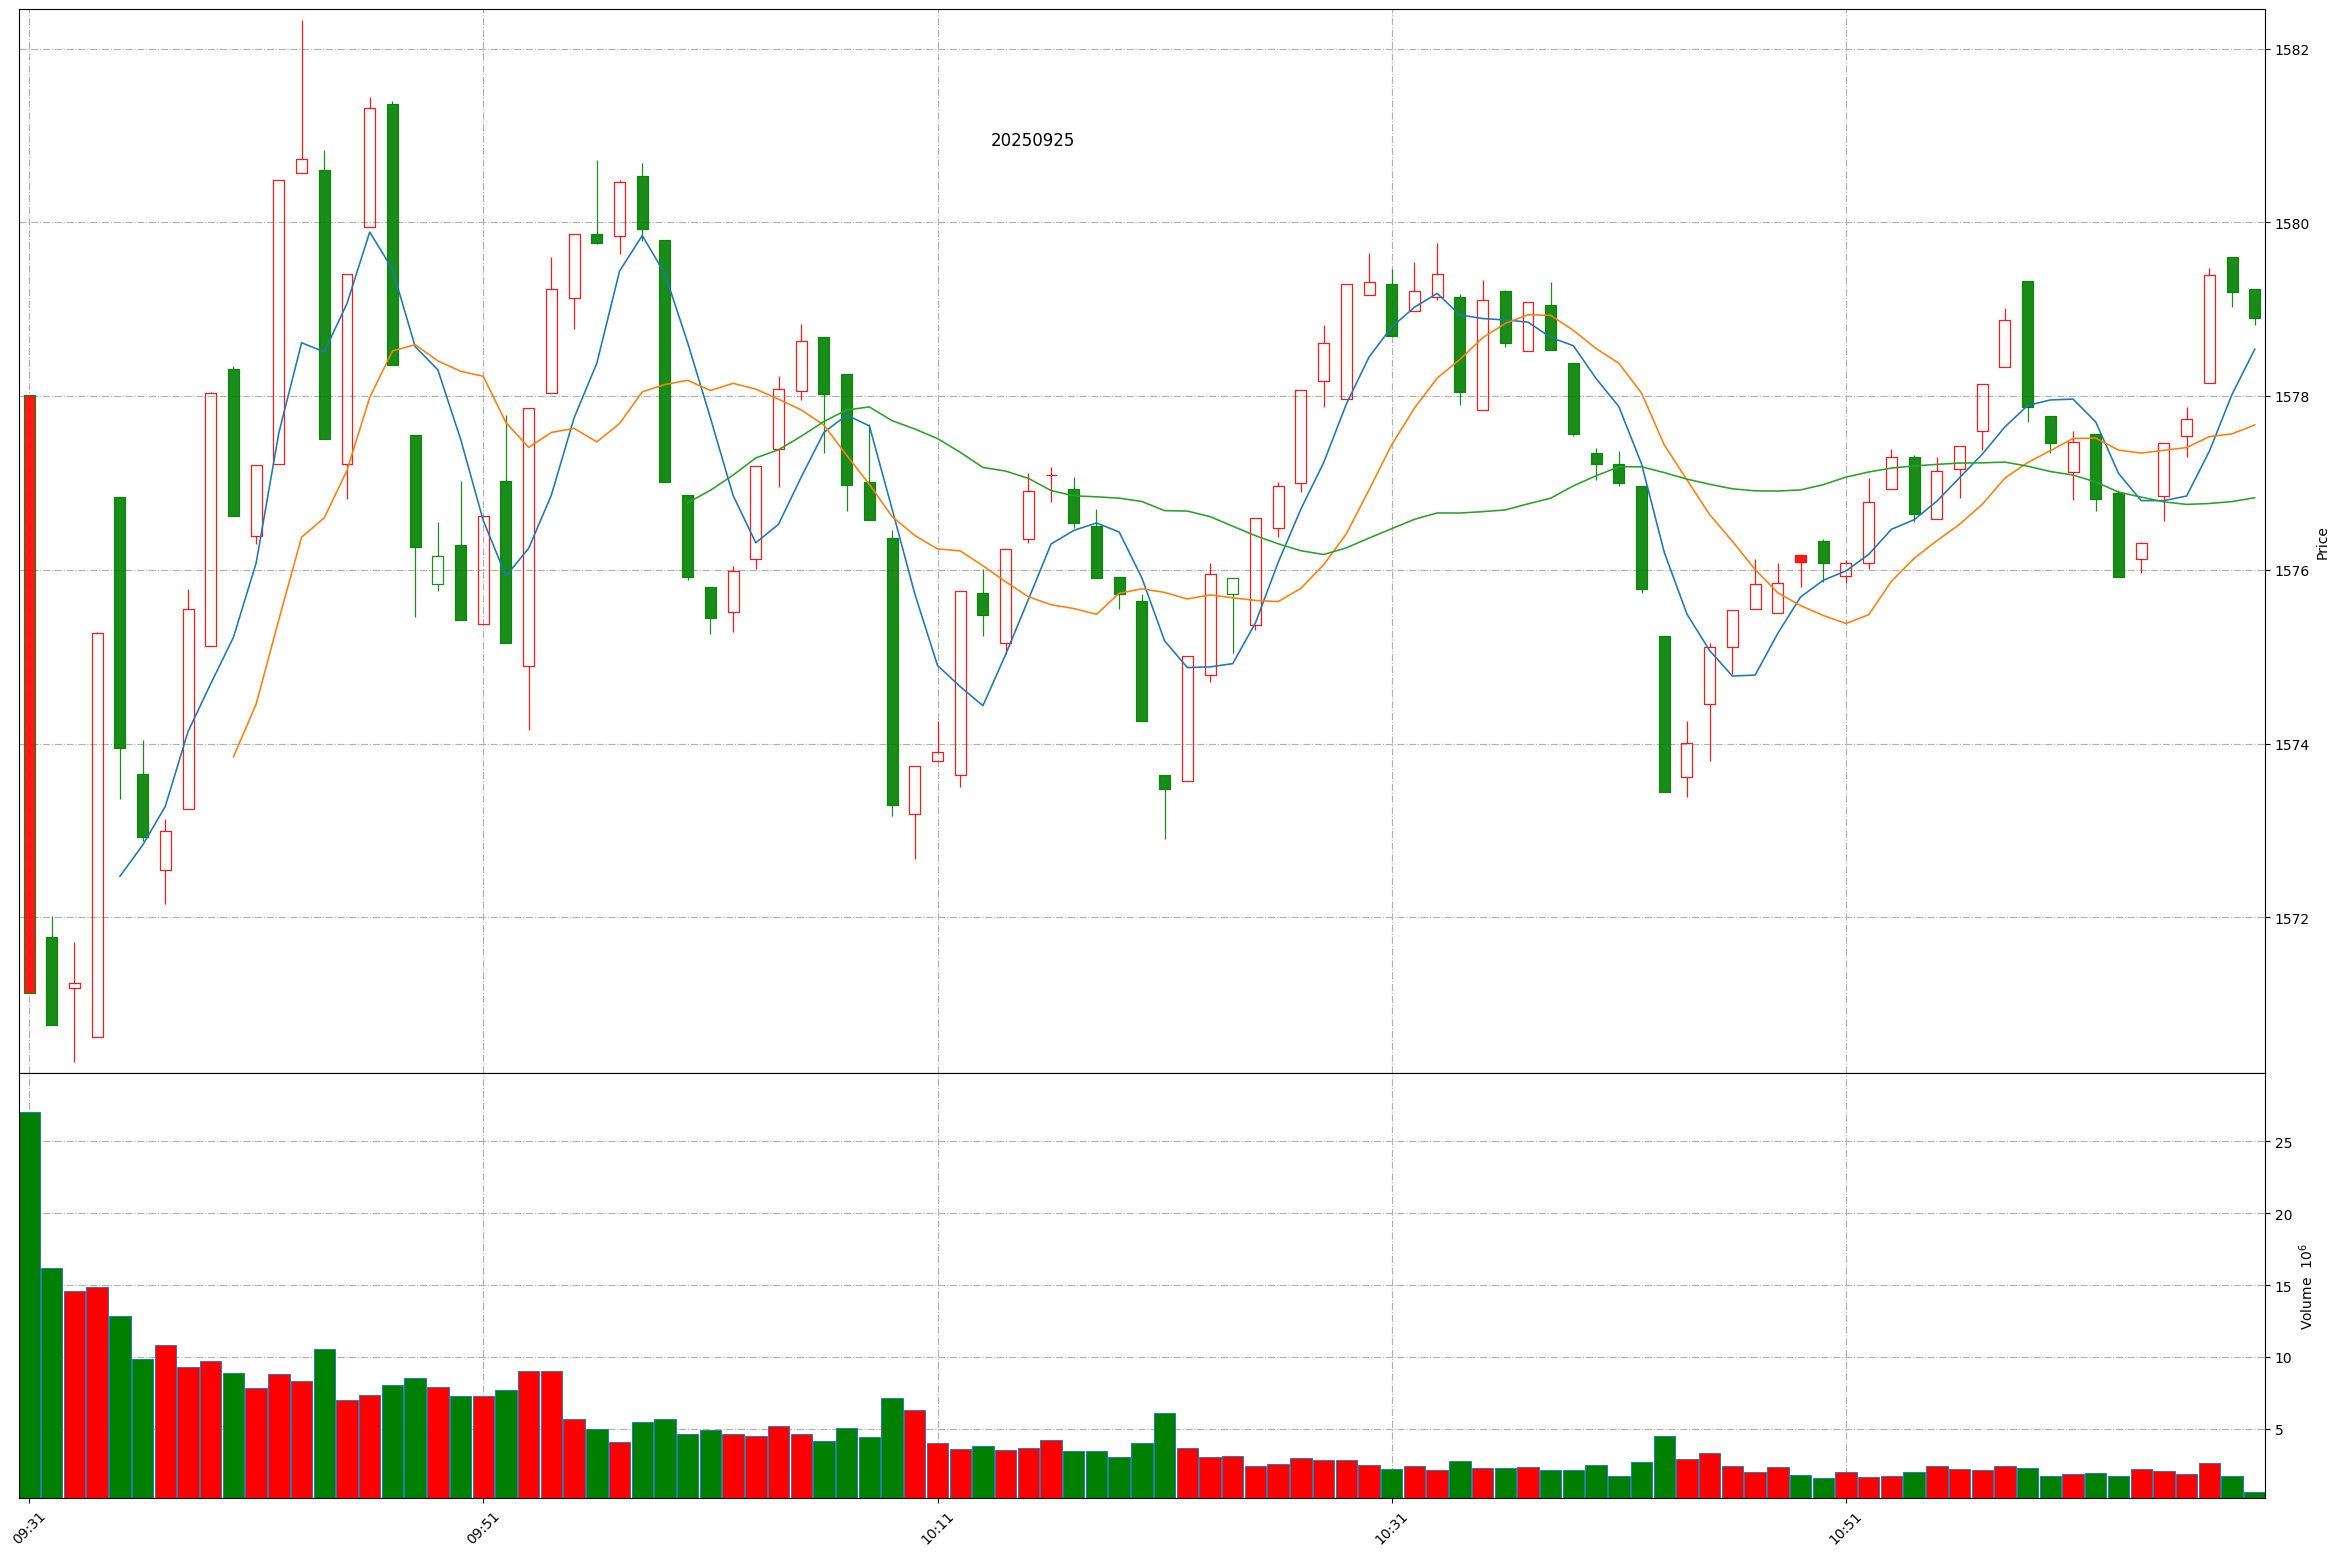
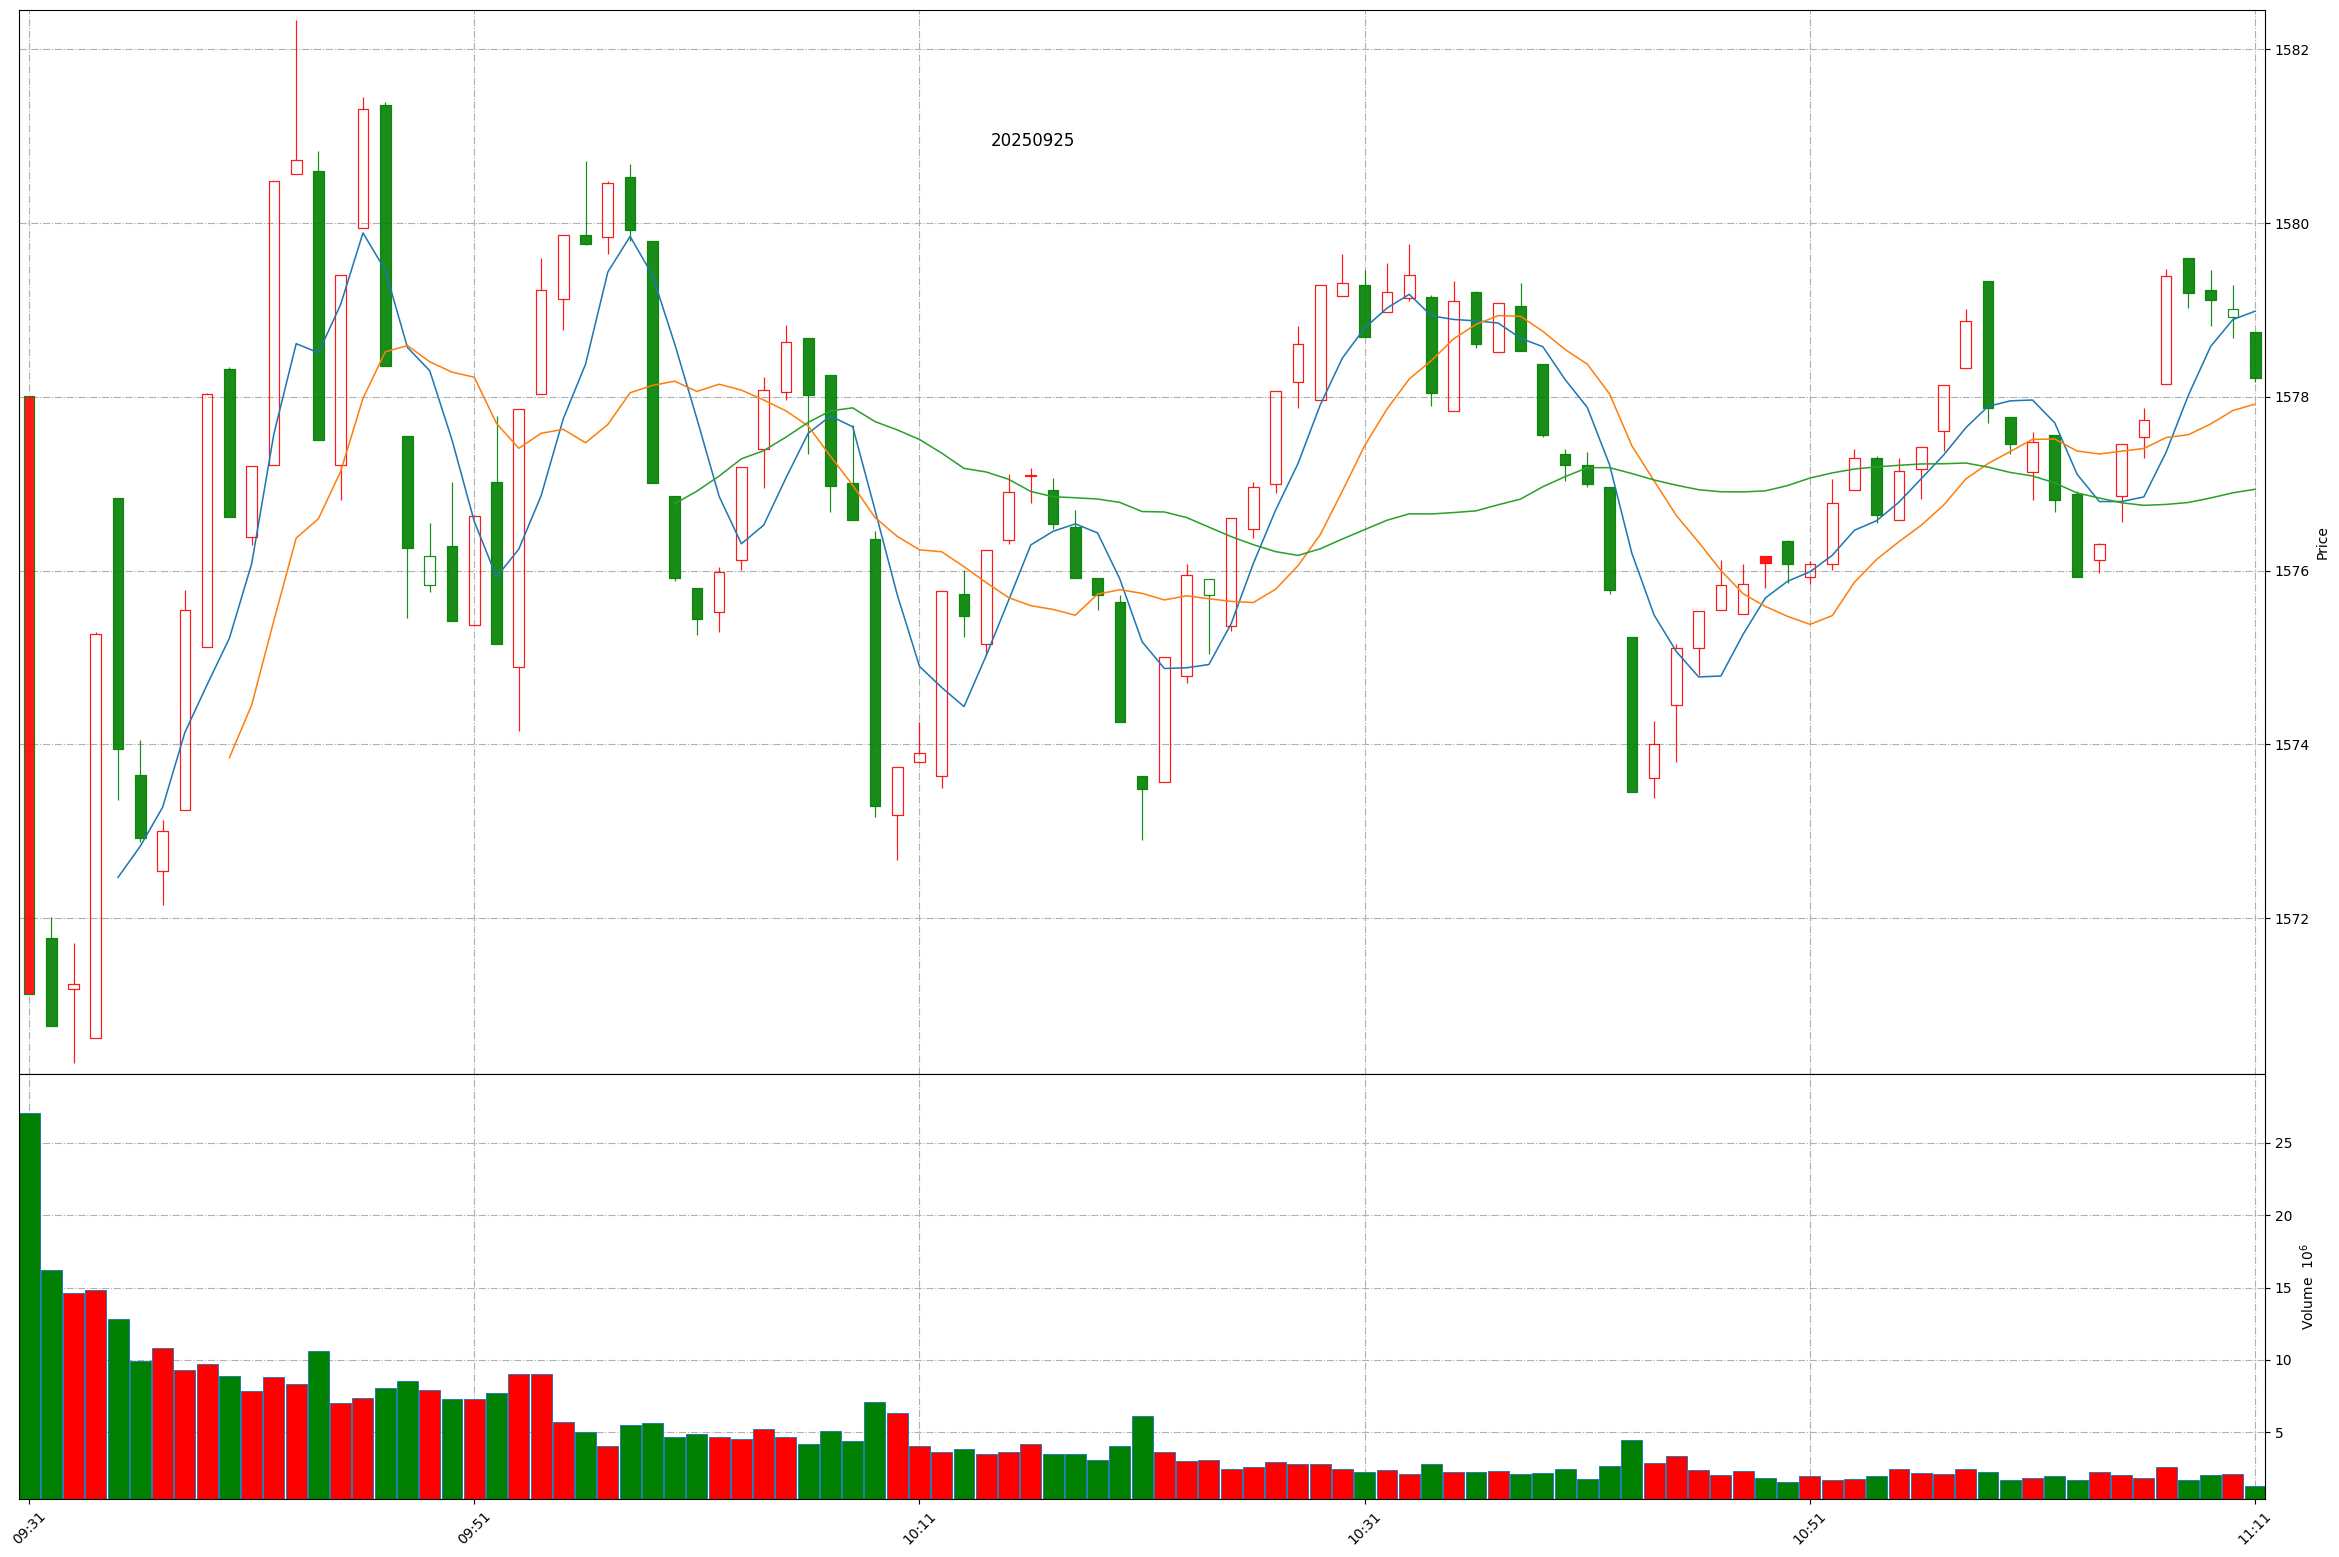
Github action update at 2025-09-25 11:10:46.

Changed region(s): [[0.0312, 0.0617, 0.9675, 0.6478], [0.0312, 0.8329, 0.9675, 0.9871], [0.4681, 0.4936, 0.4994, 0.5244]]

diff --git a/README.md b/README.md
@@ -1,11 +1,11 @@
 
 # Daily-A-share-market-quotes 每日 A 股指数（5min 更新）- 20250925
 
-### 上证指数 20250925 11:8
+### 上证指数 20250925 11:10
 ![](./fig/2025/9/20250925-sh000001.png)
 
-### 深证成指 20250925 11:8
+### 深证成指 20250925 11:10
 ![](./fig/2025/9/20250925-sz399001.png)
 
-### 北证50 20250925 11:8
+### 北证50 20250925 11:10
 ![](./fig/2025/9/20250925-bj899050.png)
